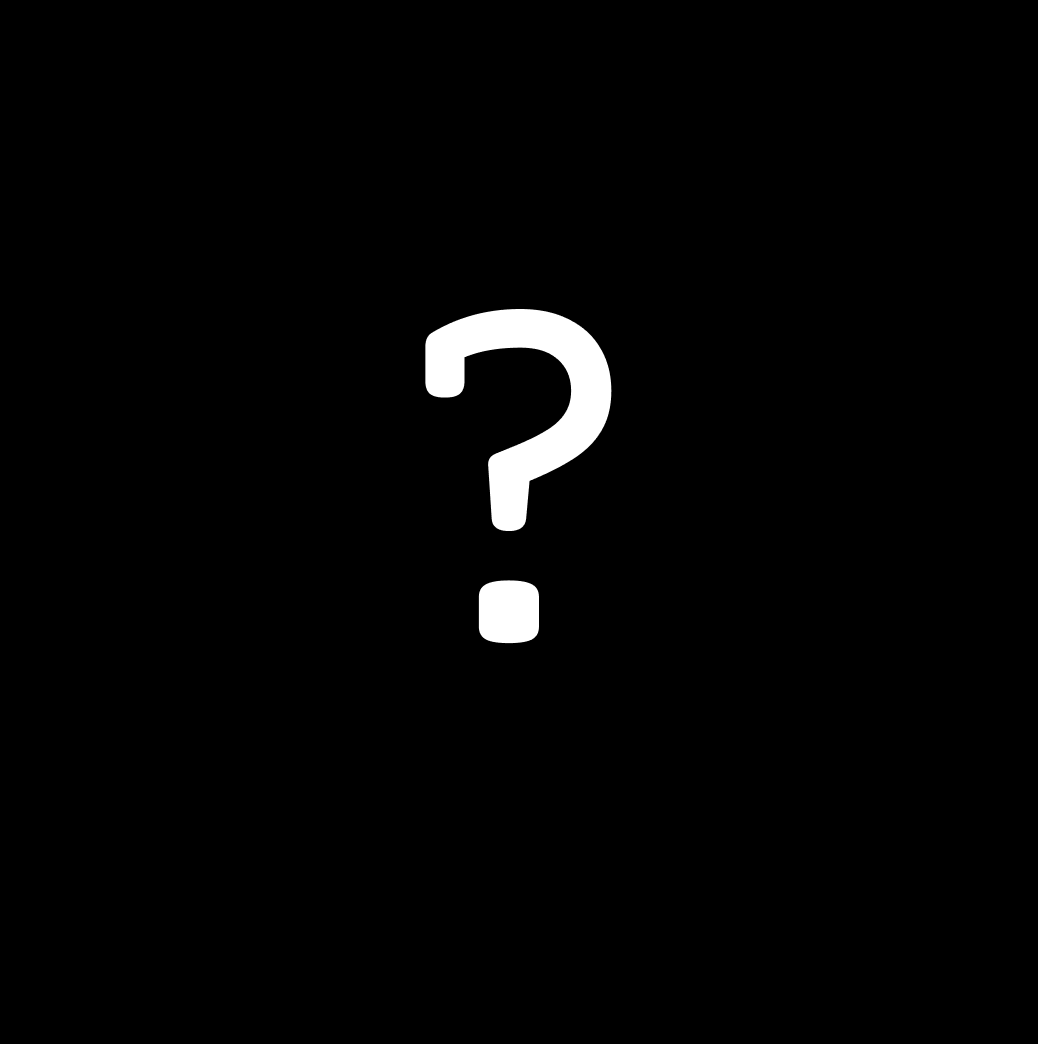
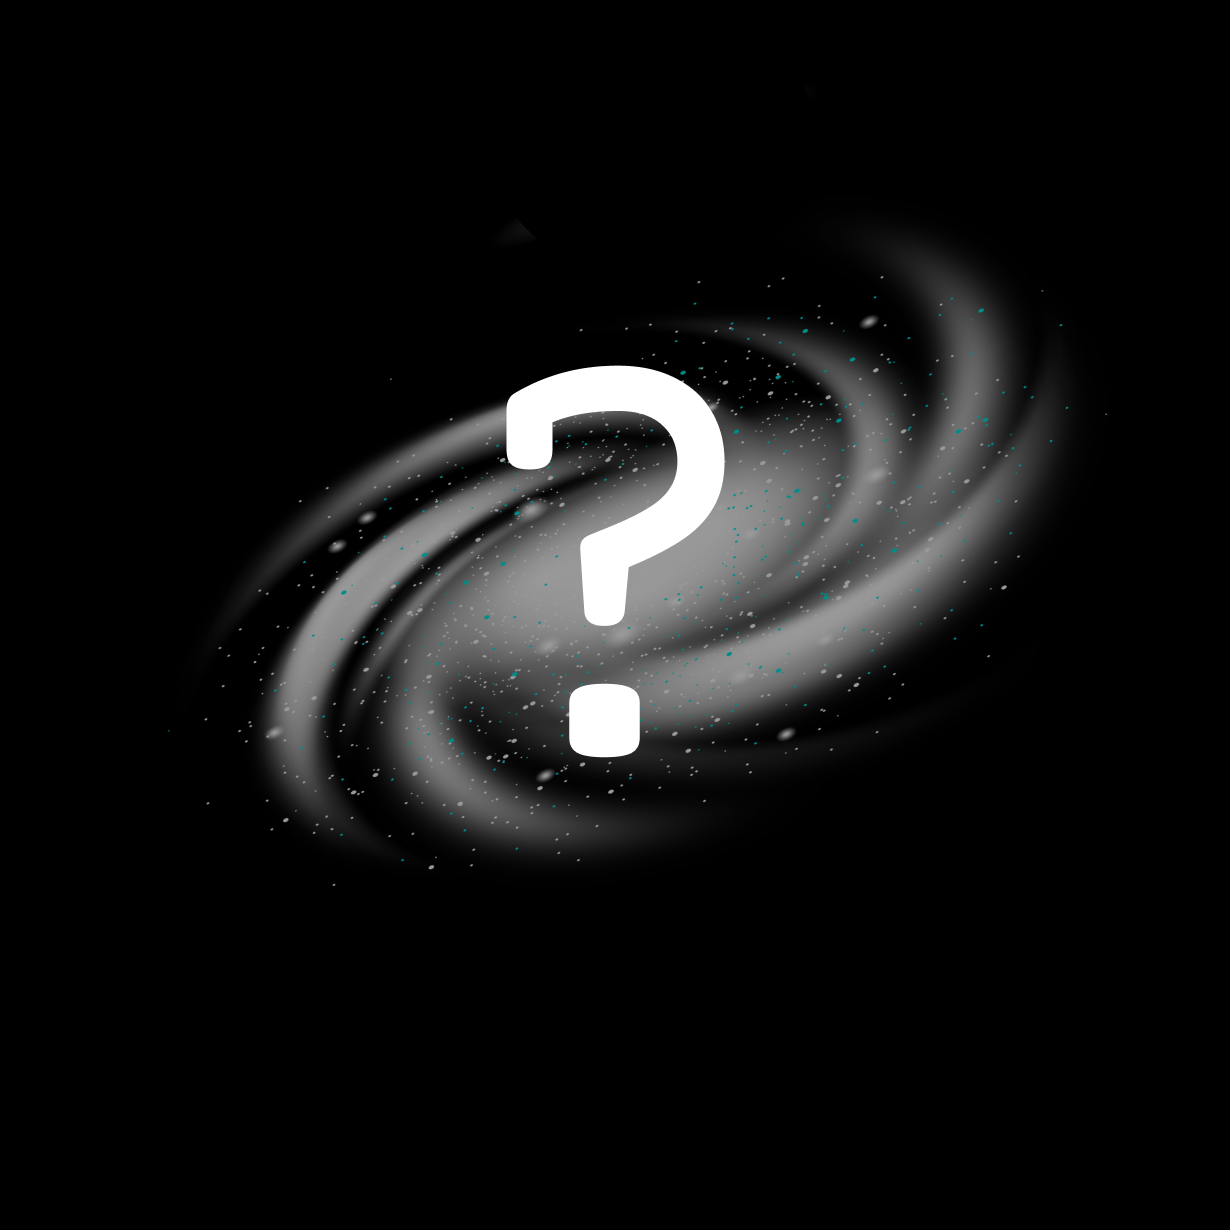
Add orbit effect to image placeholder

Changed region(s): [[0.185, 0.1839, 0.8632, 0.705]]

diff --git a/styles.css b/styles.css
@@ -2,8 +2,8 @@
 :root {
 
     /* Colours */
-    --white-fonts: #fff;
-    --black-fonts: #000;
+    --white: #fff;
+    --black: #000;
     --background-main: #010015;
     --button-hover: #FCD989;
 
@@ -21,7 +21,7 @@
 
 /* -- Sitewide -- */
 * {
-    color: var(--white-fonts);
+    color: var(--white);
     font-family: 'Inter', sans-serif;
 }
 
@@ -87,10 +87,10 @@ section {
 .outline-text {
     color: var(--background-main);
     text-shadow: 
-        var(--outline-text-negative) var(--outline-text-postive) 0 var(--white-fonts),
-        var(--outline-text-postive) var(--outline-text-postive) 0 var(--white-fonts),
-        var(--outline-text-postive) var(--outline-text-negative) 0 var(--white-fonts),
-        var(--outline-text-negative) var(--outline-text-negative) 0 var(--white-fonts);
+        var(--outline-text-negative) var(--outline-text-postive) 0 var(--white),
+        var(--outline-text-postive) var(--outline-text-postive) 0 var(--white),
+        var(--outline-text-postive) var(--outline-text-negative) 0 var(--white),
+        var(--outline-text-negative) var(--outline-text-negative) 0 var(--white);
 }
 
 .square-image {
@@ -133,13 +133,13 @@ a {
 
 .link-button {
     padding: var(--xs-padding);
-    background-color: var(--white-fonts);
+    background-color: var(--white);
     width: max-content;
     height: max-content;
 }
 
 .link-text {
-    color: var(--black-fonts);
+    color: var(--black);
 }
 
 .link-arrow-container {
@@ -221,7 +221,7 @@ input, form button {
 }
 
 input, datalist, form button {
-    color: var(--black-fonts);
+    color: var(--black);
 }
 
 #image-placeholder {
